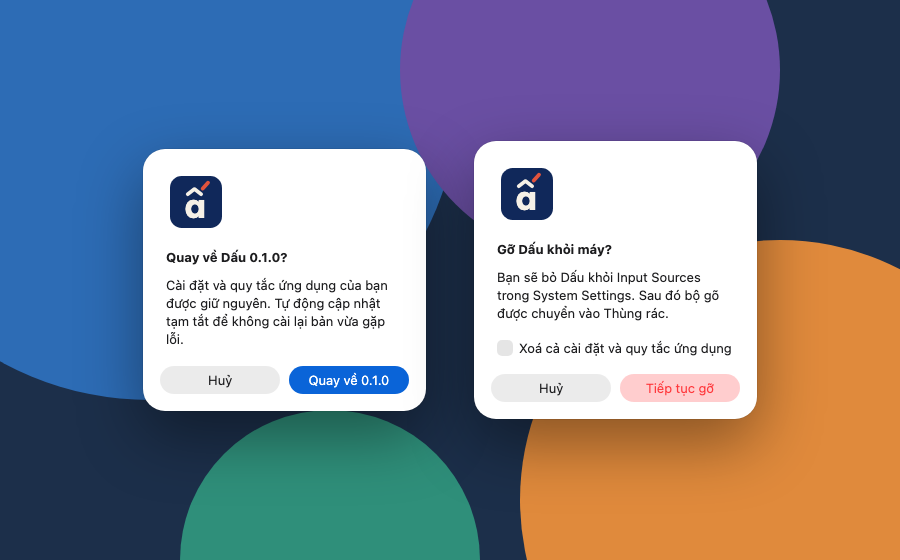
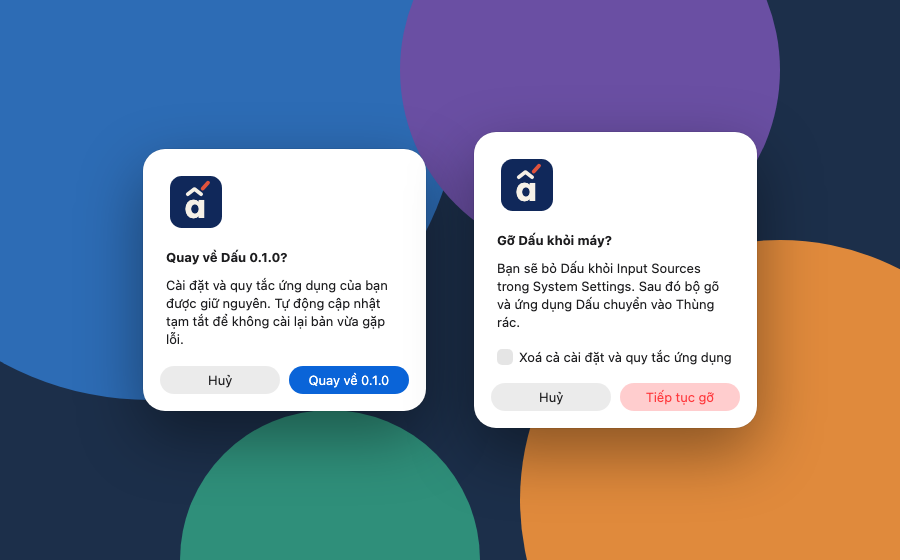
feat(app): move Dấu.app itself to the Trash when uninstalling
The confirmation asks "Uninstall Dấu?" (vi: remove Dấu from this Mac),
but Dấu.app stayed in Applications afterwards and the result alert asked
the user to drag it to the Trash. Once the input method is gone, the app
now moves its own bundle to the Trash and quits. When macOS refuses (no
write access, run from a disk image) the result alert's only button,
"Show in Finder", reveals the app so the user can drag it.

Both result alerts are built before the move: once the bundle is in the
Trash, Bundle.main no longer finds its string tables.

D16 changes accordingly (DecisionsLog has the old rule). New artboard
UninstallDone; ConfirmDialogs and the catalog say the app goes to the
Trash too. Checked on macOS 27.2 with a Debug build in /Applications: the
log shows event=uninstall-app-trashed and the app left Applications.

Changed region(s): [[0.5289, 0.6071, 0.84, 0.7893], [0.5289, 0.425, 0.8089, 0.5768], [0.5289, 0.2125, 0.84, 0.3946]]

diff --git a/docs/canvas/src/ConfirmDialogs.dc.html b/docs/canvas/src/ConfirmDialogs.dc.html
@@ -47,7 +47,7 @@ body{margin:0}
 </div>
 <div style="position: absolute; inset: 0; display: flex; align-items: center; justify-content: center; gap: 48px">
 <div role="alertdialog" aria-labelledby="ra-t" aria-describedby="ra-d" style="width: 283px; box-sizing: border-box; padding: 0 0 16px; border-radius: 22px; display: flex; flex-direction: column; align-items: stretch; text-align: left; background: #ffffff; border: 1px solid rgba(255,255,255,0.45); box-shadow: 0 0 0 0.5px rgba(0,0,0,0.12), 0 24px 64px rgba(0,0,0,0.4)"><svg width="52" height="52" viewBox="0 0 100 100" aria-hidden="true" style="flex: none; display: block; margin: 26px 0 0 26px"><rect x="0" y="0" width="100" height="100" rx="22.4" fill="#10285A"></rect><text x="48" y="80" text-anchor="middle" font-family="'Be Vietnam Pro', -apple-system, 'Helvetica Neue', sans-serif" font-weight="700" font-size="64" fill="#F6F1E7">a</text><path d="M34 35 L47 25 L60 35" fill="none" stroke="#F6F1E7" stroke-width="7" stroke-linecap="round" stroke-linejoin="round"></path><path d="M63 24 L73 13" fill="none" stroke="#E0533D" stroke-width="7.5" stroke-linecap="round"></path></svg><h2 id="ra-t" style="margin: 21px 22px 0; font-size: 13px; line-height: 16px; font-weight: 700; color: #1d1d1f">Quay về Dấu 0.1.0?</h2><p id="ra-d" style="margin: 11px 22px 0; font-size: 13px; line-height: 18px; color: #1d1d1f">Cài đặt và quy tắc ứng dụng của bạn được giữ nguyên. Tự động cập nhật tạm tắt để không cài lại bản vừa gặp lỗi.</p><div style="margin: 18px 16px 0; display: flex; gap: 8.5px"><button class="btn" style="flex: 1; height: 28px; padding: 0 12px; font-weight: 400; background: rgba(0,0,0,0.08)">Huỷ</button><button class="btn pri" style="flex: 1; height: 28px; padding: 0 12px; font-weight: 400">Quay về 0.1.0</button></div></div>
-<div role="alertdialog" aria-labelledby="ua-t" aria-describedby="ua-d" style="width: 283px; box-sizing: border-box; padding: 0 0 16px; border-radius: 22px; display: flex; flex-direction: column; align-items: stretch; text-align: left; background: #ffffff; border: 1px solid rgba(255,255,255,0.45); box-shadow: 0 0 0 0.5px rgba(0,0,0,0.12), 0 24px 64px rgba(0,0,0,0.4)"><svg width="52" height="52" viewBox="0 0 100 100" aria-hidden="true" style="flex: none; display: block; margin: 26px 0 0 26px"><rect x="0" y="0" width="100" height="100" rx="22.4" fill="#10285A"></rect><text x="48" y="80" text-anchor="middle" font-family="'Be Vietnam Pro', -apple-system, 'Helvetica Neue', sans-serif" font-weight="700" font-size="64" fill="#F6F1E7">a</text><path d="M34 35 L47 25 L60 35" fill="none" stroke="#F6F1E7" stroke-width="7" stroke-linecap="round" stroke-linejoin="round"></path><path d="M63 24 L73 13" fill="none" stroke="#E0533D" stroke-width="7.5" stroke-linecap="round"></path></svg><h2 id="ua-t" style="margin: 21px 22px 0; font-size: 13px; line-height: 16px; font-weight: 700; color: #1d1d1f">Gỡ Dấu khỏi máy?</h2><p id="ua-d" style="margin: 11px 22px 0; font-size: 13px; line-height: 18px; color: #1d1d1f">Bạn sẽ bỏ Dấu khỏi Input Sources trong System Settings. Sau đó bộ gõ được chuyển vào Thùng rác.</p><label style="margin: 18px 22px 0; height: 16px; display: flex; align-items: center; gap: 6px; font-size: 13px; color: #1d1d1f"><input type="checkbox" style="appearance: none; -webkit-appearance: none; width: 16px; height: 16px; margin: 0; border-radius: 5px; background: rgba(0,0,0,0.1); flex: none; cursor: default">Xoá cả cài đặt và quy tắc ứng dụng</label><div style="margin: 18px 16px 0; display: flex; gap: 8.5px"><button class="btn" style="flex: 1; height: 28px; padding: 0 12px; font-weight: 400; background: rgba(0,0,0,0.08)">Huỷ</button><button class="btn" style="flex: 1; height: 28px; padding: 0 12px; font-weight: 400; background: rgba(255,56,60,0.25); color: #ff383c">Tiếp tục gỡ</button></div></div>
+<div role="alertdialog" aria-labelledby="ua-t" aria-describedby="ua-d" style="width: 283px; box-sizing: border-box; padding: 0 0 16px; border-radius: 22px; display: flex; flex-direction: column; align-items: stretch; text-align: left; background: #ffffff; border: 1px solid rgba(255,255,255,0.45); box-shadow: 0 0 0 0.5px rgba(0,0,0,0.12), 0 24px 64px rgba(0,0,0,0.4)"><svg width="52" height="52" viewBox="0 0 100 100" aria-hidden="true" style="flex: none; display: block; margin: 26px 0 0 26px"><rect x="0" y="0" width="100" height="100" rx="22.4" fill="#10285A"></rect><text x="48" y="80" text-anchor="middle" font-family="'Be Vietnam Pro', -apple-system, 'Helvetica Neue', sans-serif" font-weight="700" font-size="64" fill="#F6F1E7">a</text><path d="M34 35 L47 25 L60 35" fill="none" stroke="#F6F1E7" stroke-width="7" stroke-linecap="round" stroke-linejoin="round"></path><path d="M63 24 L73 13" fill="none" stroke="#E0533D" stroke-width="7.5" stroke-linecap="round"></path></svg><h2 id="ua-t" style="margin: 21px 22px 0; font-size: 13px; line-height: 16px; font-weight: 700; color: #1d1d1f">Gỡ Dấu khỏi máy?</h2><p id="ua-d" style="margin: 11px 22px 0; font-size: 13px; line-height: 18px; color: #1d1d1f">Bạn sẽ bỏ Dấu khỏi Input Sources trong System Settings. Sau đó bộ gõ và ứng dụng Dấu chuyển vào Thùng rác.</p><label style="margin: 18px 22px 0; height: 16px; display: flex; align-items: center; gap: 6px; font-size: 13px; color: #1d1d1f"><input type="checkbox" style="appearance: none; -webkit-appearance: none; width: 16px; height: 16px; margin: 0; border-radius: 5px; background: rgba(0,0,0,0.1); flex: none; cursor: default">Xoá cả cài đặt và quy tắc ứng dụng</label><div style="margin: 18px 16px 0; display: flex; gap: 8.5px"><button class="btn" style="flex: 1; height: 28px; padding: 0 12px; font-weight: 400; background: rgba(0,0,0,0.08)">Huỷ</button><button class="btn" style="flex: 1; height: 28px; padding: 0 12px; font-weight: 400; background: rgba(255,56,60,0.25); color: #ff383c">Tiếp tục gỡ</button></div></div>
 </div></div>
 </x-dc>
 <script type="text/x-dc" data-dc-script data-props='{"accent":{"editor":"color","default":"#0A64D8","options":["#0A64D8","#7A3FD1","#C2410C","#1F7A4D"]},"$preview":{"width":900,"height":560}}'>

diff --git a/Apps/Dau/Sources/InputMethodActions.swift b/Apps/Dau/Sources/InputMethodActions.swift
@@ -239,15 +239,36 @@ final class InputMethodActions {
         }
     }
 
+    /// Moves Dấu.app itself to the Trash once its input method is gone (D16). False when
+    /// macOS refuses it, such as without write access to its folder or from a disk image.
+    private static func moveAppToTrash(_ app: URL) -> Bool {
+        do {
+            try FileManager.default.trashItem(at: app, resultingItemURL: nil)
+            installLogger.notice("event=uninstall-app-trashed")
+            return true
+        } catch {
+            installLogger.error("event=uninstall-app-not-trashed error=\(String(describing: error), privacy: .public)")
+            return false
+        }
+    }
+
     /// The whole removal with its alerts: prepare, wait for the user, finish.
     func uninstall(deleteSettings: Bool, window: NSWindow?) async {
         switch await performUninstall(deleteSettings: deleteSettings) {
         case .cancelled:
             break
         case .done(let report):
-            UninstallAlert.present(UninstallAlert.done(report), in: window) { _ in
-                // The input method is gone; this app would only offer to install it
-                // again. It quits; the user removes Dấu.app from Applications.
+            // Both alerts are built before the app leaves its folder: once it is in the
+            // Trash, Bundle.main no longer finds its string tables and the text falls
+            // back to the English keys.
+            let app = Bundle.main.bundleURL
+            let removed = UninstallAlert.done(report, appMovedToTrash: true)
+            let leftBehind = UninstallAlert.done(report, appMovedToTrash: false)
+            let appMovedToTrash = Self.moveAppToTrash(app)
+            UninstallAlert.present(appMovedToTrash ? removed : leftBehind, in: window) { _ in
+                if !appMovedToTrash {
+                    NSWorkspace.shared.activateFileViewerSelecting([app])
+                }
                 NSApp.terminate(nil)
             }
         case .failed:
@@ -342,7 +363,7 @@ enum UninstallAlert {
         // macOS lets only the user remove an input source, so the alert says what happens
         // in order (docs/research/InputMethodInstall.md section 5.1).
         let ui = SystemUINames.system()   // macOS's own names (D38)
-        alert.informativeText = String(localized: "You’ll remove Dấu from \(ui.inputSources) in \(ui.systemSettings). Then the input method is moved to \(ui.trash).")
+        alert.informativeText = String(localized: "You’ll remove Dấu from \(ui.inputSources) in \(ui.systemSettings). Then the input method and the Dấu app are moved to \(ui.trash).")
         let remove = alert.addButton(withTitle: String(localized: "Uninstall"))
         remove.hasDestructiveAction = true
         // Return must not remove Dấu: no default button; Esc cancels.
@@ -356,13 +377,22 @@ enum UninstallAlert {
         return (alert, checkbox)
     }
 
-    static func done(_ report: UninstallReport) -> NSAlert {
+    /// The result (mockup "UninstallDone"). Without `appMovedToTrash` its one button reveals
+    /// the app in Finder, where the user drags it to the Trash.
+    static func done(_ report: UninstallReport, appMovedToTrash: Bool) -> NSAlert {
         let alert = NSAlert()
-        alert.messageText = String(localized: "Dấu’s input method was removed")
         let ui = SystemUINames.system()   // macOS's own names (D38)
         var lines: [String] = []
-        if report.movedToTrash {
-            lines.append(String(localized: "The input method was moved to \(ui.trash)."))
+        if appMovedToTrash {
+            alert.messageText = String(localized: "Dấu was removed")
+            lines.append(report.movedToTrash
+                ? String(localized: "Dấu’s input method and app were moved to \(ui.trash).")
+                : String(localized: "The Dấu app was moved to \(ui.trash)."))
+        } else {
+            alert.messageText = String(localized: "Dấu’s input method was removed")
+            if report.movedToTrash {
+                lines.append(String(localized: "The input method was moved to \(ui.trash)."))
+            }
         }
         if report.stillEnabled {
             lines.append(String(localized: "macOS still lists Dấu among the input sources; you can remove it in \(ui.inputSourcesPath)."))
@@ -370,9 +400,13 @@ enum UninstallAlert {
         if report.dataDeleted {
             lines.append(String(localized: "Settings and app rules were deleted."))
         }
-        lines.append(String(localized: "To remove the app too, drag Dấu from the \(ui.applications) folder to \(ui.trash)."))
+        if appMovedToTrash {
+            alert.addButton(withTitle: String(localized: "Quit Dấu"))
+        } else {
+            lines.append(String(localized: "Dấu couldn’t move the app itself, so drag Dấu to \(ui.trash) in the Finder window that opens."))
+            alert.addButton(withTitle: String(localized: "Show in Finder"))
+        }
         alert.informativeText = lines.joined(separator: " ")
-        alert.addButton(withTitle: String(localized: "Quit Dấu"))
         return alert
     }
 

diff --git a/docs/canvas/src/UninstallDone.dc.html b/docs/canvas/src/UninstallDone.dc.html
@@ -1,0 +1,37 @@
+<!doctype html>
+<html lang="vi">
+<head>
+<meta charset="utf-8">
+<title>Gỡ cài đặt xong</title>
+<script src="./support.js"></script>
+</head>
+<body>
+<x-dc>
+<helmet>
+<style>
+@import url('https://fonts.googleapis.com/css2?family=Be+Vietnam+Pro:wght@400;500;600;700;800&display=swap');
+body{margin:0}
+.btn{all:unset;box-sizing:border-box;height:30px;padding:0 16px;border-radius:999px;font-size:13px;font-weight:500;display:inline-flex;align-items:center;justify-content:center;background:rgba(0,0,0,.06);color:#1d1d1f;cursor:default;white-space:nowrap;text-decoration:none}
+.btn.pri{background:var(--acc);color:#fff}
+</style>
+</helmet>
+<div style="width: 900px; height: 560px; position: relative; overflow: hidden; font-family: -apple-system, BlinkMacSystemFont, 'SF Pro Text', 'Helvetica Neue', sans-serif; --acc: {{accent}}"><div aria-hidden="true" style="position: absolute; inset: 0; background: #1c2f4a; overflow: hidden">
+<div style="position: absolute; width: 620px; height: 620px; border-radius: 50%; background: #2d6cb5; left: -160px; top: -220px"></div>
+<div style="position: absolute; width: 520px; height: 520px; border-radius: 50%; background: #e08a3c; right: -140px; bottom: -200px"></div>
+<div style="position: absolute; width: 380px; height: 380px; border-radius: 50%; background: #6a4fa3; right: 120px; top: -120px"></div>
+<div style="position: absolute; width: 300px; height: 300px; border-radius: 50%; background: #2f8f7a; left: 180px; bottom: -150px"></div>
+</div>
+<div style="position: absolute; inset: 0; display: flex; align-items: center; justify-content: center; gap: 48px">
+<div role="alertdialog" aria-labelledby="da-t" aria-describedby="da-d" style="width: 283px; box-sizing: border-box; padding: 0 0 16px; border-radius: 22px; display: flex; flex-direction: column; align-items: stretch; text-align: left; background: #ffffff; border: 1px solid rgba(255,255,255,0.45); box-shadow: 0 0 0 0.5px rgba(0,0,0,0.12), 0 24px 64px rgba(0,0,0,0.4)"><svg width="52" height="52" viewBox="0 0 100 100" aria-hidden="true" style="flex: none; display: block; margin: 26px 0 0 26px"><rect x="0" y="0" width="100" height="100" rx="22.4" fill="#10285A"></rect><text x="48" y="80" text-anchor="middle" font-family="'Be Vietnam Pro', -apple-system, 'Helvetica Neue', sans-serif" font-weight="700" font-size="64" fill="#F6F1E7">a</text><path d="M34 35 L47 25 L60 35" fill="none" stroke="#F6F1E7" stroke-width="7" stroke-linecap="round" stroke-linejoin="round"></path><path d="M63 24 L73 13" fill="none" stroke="#E0533D" stroke-width="7.5" stroke-linecap="round"></path></svg><h2 id="da-t" style="margin: 21px 22px 0; font-size: 13px; line-height: 16px; font-weight: 700; color: #1d1d1f">Đã gỡ Dấu</h2><p id="da-d" style="margin: 11px 22px 0; font-size: 13px; line-height: 18px; color: #1d1d1f">Bộ gõ và ứng dụng Dấu đã chuyển vào Thùng rác. Cài đặt và quy tắc ứng dụng đã bị xoá.</p><div style="margin: 18px 16px 0; display: flex; gap: 8.5px"><button class="btn pri" style="flex: 1; height: 28px; padding: 0 12px; font-weight: 400">Thoát Dấu</button></div></div>
+<div role="alertdialog" aria-labelledby="fa-t" aria-describedby="fa-d" style="width: 283px; box-sizing: border-box; padding: 0 0 16px; border-radius: 22px; display: flex; flex-direction: column; align-items: stretch; text-align: left; background: #ffffff; border: 1px solid rgba(255,255,255,0.45); box-shadow: 0 0 0 0.5px rgba(0,0,0,0.12), 0 24px 64px rgba(0,0,0,0.4)"><svg width="52" height="52" viewBox="0 0 100 100" aria-hidden="true" style="flex: none; display: block; margin: 26px 0 0 26px"><rect x="0" y="0" width="100" height="100" rx="22.4" fill="#10285A"></rect><text x="48" y="80" text-anchor="middle" font-family="'Be Vietnam Pro', -apple-system, 'Helvetica Neue', sans-serif" font-weight="700" font-size="64" fill="#F6F1E7">a</text><path d="M34 35 L47 25 L60 35" fill="none" stroke="#F6F1E7" stroke-width="7" stroke-linecap="round" stroke-linejoin="round"></path><path d="M63 24 L73 13" fill="none" stroke="#E0533D" stroke-width="7.5" stroke-linecap="round"></path></svg><h2 id="fa-t" style="margin: 21px 22px 0; font-size: 13px; line-height: 16px; font-weight: 700; color: #1d1d1f">Đã gỡ bộ gõ Dấu</h2><p id="fa-d" style="margin: 11px 22px 0; font-size: 13px; line-height: 18px; color: #1d1d1f">Bộ gõ đã chuyển vào Thùng rác. Dấu không chuyển được chính ứng dụng, nên bạn kéo Dấu vào Thùng rác trong cửa sổ Finder sắp mở.</p><div style="margin: 18px 16px 0; display: flex; gap: 8.5px"><button class="btn pri" style="flex: 1; height: 28px; padding: 0 12px; font-weight: 400">Hiển thị trong Finder</button></div></div>
+</div></div>
+</x-dc>
+<script type="text/x-dc" data-dc-script data-props='{"accent":{"editor":"color","default":"#0A64D8","options":["#0A64D8","#7A3FD1","#C2410C","#1F7A4D"]},"$preview":{"width":900,"height":560}}'>
+class Component extends DCLogic {
+renderVals() {
+return { accent: this.props.accent ?? '#0A64D8' };
+}
+}
+</script>
+</body>
+</html>

diff --git a/Apps/Dau/Tests/DauAppTests/InputMethodInstallerTests.swift b/Apps/Dau/Tests/DauAppTests/InputMethodInstallerTests.swift
@@ -1155,6 +1155,36 @@ struct UninstallFlowTests {
 }
 
 @MainActor
+@Suite("Uninstall result alert (D16)")
+struct UninstallResultAlertTests {
+    private let report = UninstallReport(movedToTrash: true, stillEnabled: false, dataDeleted: true)
+
+    @Test("With the app in the Trash, the alert says Dấu was removed and only quits")
+    func appMovedToTrash() {
+        let alert = UninstallAlert.done(report, appMovedToTrash: true)
+        #expect(alert.messageText == String(localized: "Dấu was removed"))
+        #expect(alert.buttons.map(\.title) == [String(localized: "Quit Dấu")])
+        #expect(alert.informativeText.contains(String(localized: "Settings and app rules were deleted.")))
+        #expect(!alert.informativeText.contains("Finder"))
+    }
+
+    @Test("Without an input method to remove, the alert names only the app")
+    func onlyTheAppMoved() {
+        let alert = UninstallAlert.done(UninstallReport(), appMovedToTrash: true)
+        let trash = SystemUINames.system().trash
+        #expect(alert.informativeText == String(localized: "The Dấu app was moved to \(trash)."))
+    }
+
+    @Test("When the app could not move itself, the alert offers Finder to drag it to the Trash")
+    func appLeftBehind() {
+        let alert = UninstallAlert.done(report, appMovedToTrash: false)
+        #expect(alert.messageText == String(localized: "Dấu’s input method was removed"))
+        #expect(alert.buttons.map(\.title) == [String(localized: "Show in Finder")])
+        #expect(alert.informativeText.contains("Finder"))
+    }
+}
+
+@MainActor
 @Suite("Banner enable (N4)")
 struct BannerEnableTests {
     final class Opened { var count = 0 }

diff --git a/scripts/selftest/settings-window/Check.swift b/scripts/selftest/settings-window/Check.swift
@@ -284,7 +284,7 @@ for dirName in ["onboarding", "onboarding-no-shortcut"] {
 
 let uninstallDir = root.appendingPathComponent("uninstall")
 let uninstallShots = loadFrames(uninstallDir)?.shots
-for key in ["confirm", "done", "remove", "remove-hint"].flatMap({ k in ["light", "dark"].map { "uninstall-\(k)-\($0)" } }) {
+for key in ["confirm", "done", "done-left-behind", "remove", "remove-hint"].flatMap({ k in ["light", "dark"].map { "uninstall-\(k)-\($0)" } }) {
     let at = "uninstall/\(key)"
     guard let sheet = uninstallShots?[key]?["sheet"], image(uninstallDir.appendingPathComponent("\(key).png")) != nil else {
         harness(at, "(g)", "no capture (see the capture step in run.sh's output)")

diff --git a/Apps/Dau/Sources/DebugCapture.swift b/Apps/Dau/Sources/DebugCapture.swift
@@ -263,7 +263,8 @@ enum DebugCapture {
                 let sample = UninstallReport(movedToTrash: true, stillEnabled: false, dataDeleted: true)
                 let alerts: [(String, NSAlert)] = [
                     ("confirm", UninstallAlert.confirmation().0),
-                    ("done", UninstallAlert.done(sample)),
+                    ("done", UninstallAlert.done(sample, appMovedToTrash: true)),
+                    ("done-left-behind", UninstallAlert.done(sample, appMovedToTrash: false)),
                 ]
                 for (key, alert) in alerts {
                     // The window `runModal` would show, without the modal loop.

diff --git a/docs/Progress.md b/docs/Progress.md
@@ -148,3 +148,10 @@ Nhật ký M0–M4 ở `docs/history/LogM0ToM4.md` (kèm bảng số đo M1–M3
   - **Bộ nhớ:** RSS là 65–69 MB ở cả ba bản (ngưỡng D42 là 96 MB) và footprint 9,5–10 MB. Ở bản Release, RSS là 65,5 MB trước khi gõ, 66,9 MB sau khoảng 4 600 phím và 66,8 MB sau một phút để yên, nên trong lượt này không tăng dần. Ở cả ba pha, Dấu.app (app chủ) không chạy nền.
   - **Test:** engine đạt 127/127 ở cả ba commit, `handle` VNI 2,70 µs mỗi phím (bản Debug). DauInputMethod có 206 test ở `1bfbcd3` và 220 test ở `7cf3382` lẫn `c20eaf4`, tất cả đạt, 124 known issue ở cả ba. Diff `7cf3382..c20eaf4` trong `Packages` và `Apps/DauInputMethod` chỉ đổi comment, xoá ký hiệu không dùng (`Ch.b`, `TextBuffer.isFull`) và dời phần mặc định của `pause`/`waitClock` vào `TimedClient` với cùng biểu thức. Diff đó trong `Apps/Dau` xoá hai tuỳ chọn dòng lệnh chỉ có ở bản Debug và đổi ô tìm của sheet thêm quy tắc; ô tìm đã kiểm ở mục "lượt kiểm sau dọn dẹp" phía trên.
 - 23/11 — chi phí tách helper của bộ gõ ra `Packages/DauInputMethodCore` (máy M3 Max, Xcode 27B52). Kiểm tĩnh bằng `nm | swift demangle`: bản Release của `f344cfb` (trước khi tách) có bản dựng riêng của `InPlaceComposer.handle` cho client thật (`TimedClient`), bản Release `87789f6` chỉ còn bản generic. Đo bằng hai file chạy `swift build -c release` dựng ngoài repo, cùng mã nguồn, cùng client giả là tài liệu chữ thuần, câu Telex 63 phím lặp 4 000 lần, 7 lượt mỗi lần chạy, 3 lần chạy xen kẽ: composer cùng module với client 1 234–1 300 ns mỗi phím (trung vị), khác module 1 289–1 346 ns, tức chậm thêm 40–63 ns mỗi phím. Một lời gọi `insertText` vào app tốn hàng trăm µs (`docs/Compatibility.md` mục 5), ngưỡng p50 của D42 là 3 ms, nên không sửa. Gõ thử bản Release `87789f6` ở Safari, Chrome, Cursor, Terminal, VS Code, và bản Debug với `--underline` ở Safari, Chrome (`scripts/selftest/typing/run.sh`): đúng chữ mọi ô; cài lại bản Release sau đó.
+- 23/11 — gỡ trọn cả app (D16) trên app thật, máy M3 Max, macOS 27.2: bản Debug của cây làm việc trước `3f1547b`, cài vào `/Applications`, người dùng bấm "Gỡ cài đặt…" và bỏ Dấu bằng "–". Log ghi `event=uninstalled` rồi `event=uninstall-app-trashed`: Dấu.app và bộ gõ cùng ra khỏi máy, macOS không chặn app tự chuyển chính nó vào Thùng rác. Chưa đo trên app thật trường hợp app không tự chuyển được (chạy từ ảnh đĩa); trường hợp đó chỉ có test đơn vị. Commit `3f1547b`.
+- 23–24/11 — chẩn đoán, chưa xong: sau khi gỡ rồi cài lại và bật lại Dấu, các app đã chạy từ trước có thể không gõ được bằng Dấu. Máy M3 Max, macOS 27.2, bản Release `3f1547b`; máy bật "Automatically switch to a document's input source" (`TextInputGlobalPropertyPerContextInput = 1`), nên mỗi app nhớ nguồn riêng. Log đọc bằng `/usr/bin/log show` (lệnh `log` trong zsh là builtin của shell). Chỉ giữ các quan sát mà nguồn hiện hành đã đọc được là Dấu lúc gõ; các lượt thử còn lại trong phiên gõ bằng U.S. (công cụ đo chọn U.S. rồi không kiểm lại nguồn), nên đã bỏ.
+  - Khi tiến trình bộ gõ chết lúc bundle không còn ở `~/Library/Input Methods`, app đang giữ Dấu xin mở lại và `imklaunchagent` ghi `LaunchInputMethod() Error, status=-50` (mọi lượt gỡ; cũng tạo lại được bằng cách dời bundle ra chỗ khác, gửi SIGTERM cho bộ gõ, gõ một phím, rồi trả bundle về).
+  - Script Editor sau một lần lỗi như vậy, nguồn là Dấu, bundle đã về chỗ, bộ gõ không chạy: phím ra chữ thường (00:47:48) hoặc bị nuốt (00:51:27–00:51:53), và không có yêu cầu nào tới `imklaunchagent` (không có dòng `Refusing connection name for bundle`).
+  - Ngay sau đó (00:52), khởi động bộ gõ bằng `open` lên bundle, không chuyển nguồn: các phím bị nuốt được xử lý và phím mới ra "tiếng". Mới thấy một lần.
+  - Script Editor mở mới, chọn Dấu: bộ gõ được mở bình thường (00:15:43). Claude không gõ được bằng Dấu sau khi cài lại (người dùng báo, 23:56 và 00:12–00:15); log không có yêu cầu nào từ Claude.
+  - Cần lặp lại, mỗi bước đọc nguồn hiện hành của app đang thử trước khi gõ: app kẹt có hồi lại chỉ nhờ bộ gõ được khởi động không (tiền đề của cách sửa "app chủ khởi động bộ gõ sau khi bật").

diff --git a/docs/UI.md b/docs/UI.md
@@ -225,23 +225,24 @@ Artboard: [SettingsTampered](canvas/SettingsTampered.png).
 
 ## Gỡ cài đặt
 
-Artboard: [ConfirmDialogs](canvas/ConfirmDialogs.png), [UninstallRemoveSource](canvas/UninstallRemoveSource.png).
+Artboard: [ConfirmDialogs](canvas/ConfirmDialogs.png), [UninstallRemoveSource](canvas/UninstallRemoveSource.png), [UninstallDone](canvas/UninstallDone.png).
 
 Luồng gỡ theo D16 (Bảo trì và gỡ cài đặt). macOS chỉ cho người dùng tự bỏ một nguồn đầu vào, nên việc gỡ có ba bước. Nếu Dấu không có trong nguồn đầu vào, app gỡ luôn sau alert xác nhận, không mở System Settings và không hiện sheet.
 
 - Bước đầu là alert xác nhận của hệ thống:
   - Alert có tuỳ chọn xoá cả cài đặt và quy tắc.
   - Nút xác nhận là "Tiếp tục gỡ". Bấm nút này chưa xoá gì.
-  - Nội dung alert chỉ nói rằng người dùng bỏ Dấu khỏi nguồn đầu vào trong System Settings, rồi Dấu chuyển vào Thùng rác.
+  - Nội dung alert chỉ nói rằng người dùng bỏ Dấu khỏi nguồn đầu vào trong System Settings, rồi bộ gõ và ứng dụng Dấu chuyển vào Thùng rác.
 - Bước tiếp theo là sheet "Bỏ Dấu khỏi nguồn đầu vào" trên cửa sổ Cài đặt:
   - App mở thẳng danh sách Input Sources của System Settings, với sheet Edit… đã mở sẵn và không chuyển nguồn đầu vào nào.
   - Sheet nêu một bước (chọn Dấu, bấm "–", bấm Done) và chờ mục lưu của Dấu biến mất, không có hạn chờ.
   - Câu nhắc "nếu nút – bị mờ, chọn bàn phím khác" chỉ hiện khi Dấu đang là nguồn được chọn. Sheet đọc lại điều này khi sheet hiện, khi cửa sổ thành key lại và khi nguồn đang chọn đổi, nên câu nhắc biến mất khi người dùng chuyển bàn phím.
   - "Huỷ gỡ cài đặt" (hoặc phím Esc, đóng sheet hay một lỗi gỡ giữa chừng) đóng sheet mà không xoá hay đổi gì.
   - Nút "Mở System Settings" chỉ mở trang đó.
-- Khi mục lưu biến mất, app dừng bộ gõ, chuyển nó vào Thùng rác, xoá dữ liệu nếu người dùng đã tick, rồi hiện alert nêu những gì đã làm; nội dung alert đọc lại từ hệ thống.
+- Khi mục lưu biến mất, app dừng bộ gõ, chuyển nó vào Thùng rác, xoá dữ liệu nếu người dùng đã tick, rồi chuyển chính nó vào Thùng rác. Sau đó app hiện alert nêu những gì đã làm; nội dung alert đọc lại từ hệ thống.
+  - Khi chuyển được cả app, alert có tiêu đề "Đã gỡ Dấu" và một nút "Thoát Dấu".
+  - Khi không chuyển được app, alert có tiêu đề "Đã gỡ bộ gõ Dấu" và một nút "Hiển thị trong Finder". Nút này mở Finder, chọn sẵn app để người dùng kéo vào Thùng rác, rồi app thoát.
 - Bộ gõ không bao giờ bị xoá khi mục lưu còn, vì nếu bundle mất trước thì mục còn lại không gỡ được.
-- App không tự xoá chính nó, mà chỉ hướng dẫn người dùng kéo nó vào Thùng rác.
 
 Quay về bản trước theo D19 (Quay về bản trước) và chưa có ở beta đầu tiên.
 

diff --git a/docs/Architecture.md b/docs/Architecture.md
@@ -403,6 +403,8 @@ Mã 2 để trống cho dòng lệnh sai, như các lệnh Debug. `scripts/dev/i
 2. `waitUntilRemovedFromInputSources` thăm dò mục lưu của Dấu (`storedEnabledIDs`) cho tới khi nó rỗng và có thể huỷ được. Trong lúc đó `UninstallRemoveSheet` hiện trên cửa sổ Cài đặt.
 3. `finishUninstall` chỉ chạy khi mục lưu đã rỗng; nếu không, kết quả là `stillListed`. Bước này chuyển `~/Library/Input Methods/DauInputMethod.app` vào Thùng rác rồi dừng bộ gõ. Nếu người dùng đã tick ô, nó xoá suite App Group (`removePersistentDomain`) và phát thông báo đổi cài đặt. Bước này xoá bộ đệm của System Settings (`SystemSettingsControl.clearKeyboardCache`) nhưng không đụng tới bộ đệm của các app khác, rồi đọc lại hệ thống để báo kết quả.
 
+Sau ba bước đó, `InputMethodActions.uninstall` chuyển chính Dấu.app (`Bundle.main.bundleURL`) vào Thùng rác bằng `FileManager.trashItem`. Hàm dựng sẵn cả hai dạng alert kết quả (`UninstallAlert.done`) trước khi chuyển, vì app đã vào Thùng rác thì `Bundle.main` không còn tìm thấy bảng chuỗi. Nếu không chuyển được, nút của alert mở Finder chọn sẵn app (`NSWorkspace.activateFileViewerSelecting`). Cả hai trường hợp đều kết thúc bằng việc app thoát.
+
 ### Cập nhật và báo lỗi
 
 Phần này là trang Cập nhật & hỗ trợ (`UpdatesSupportView`); hành vi của trang tả ở `docs/UI.md`.

diff --git a/docs/history/DecisionsLog.md b/docs/history/DecisionsLog.md
@@ -196,6 +196,7 @@ Lưu trữ cách từng nguyên tắc và quyết định trong `docs/Decisions.
 
 - 11/11/2026 (sổ viết lại): ba ý "Quy tắc kèm theo khi gỡ" (huỷ hay lỗi không xoá gì; không đụng container riêng của bộ gõ; app không tự xoá chính nó) chuyển từ `docs/Architecture.md` vào sổ; luật không đổi.
 - 16/11/2026 (người dùng duyệt, sau kiểm toán M6): dòng mục lục "Gỡ chỉ chạy sau khi người dùng bỏ Dấu bằng "–"." viết đủ "bỏ Dấu khỏi nguồn đầu vào". Luật không đổi.
+- 23/11/2026 (người dùng chọn, sau một lượt phản biện): gỡ trọn cả app. Người dùng gỡ Dấu trên một máy Intel rồi thấy Dấu.app vẫn còn trong Applications, dù alert xác nhận hỏi "Gỡ Dấu khỏi máy?". Bản trước, nguyên văn: "App không tự xoá chính nó, chỉ hướng dẫn rồi thoát." Dòng mục lục trước: "App chỉ gỡ bộ gõ sau khi người dùng bỏ Dấu khỏi nguồn đầu vào bằng nút "–"." Artboard mới: UninstallDone.
 
 ### D17. Trợ năng
 

diff --git a/docs/canvas/README.md b/docs/canvas/README.md
@@ -66,6 +66,7 @@
 ## Gỡ cài đặt
 
 - [Gỡ cài đặt – bỏ Dấu khỏi nguồn đầu vào](UninstallRemoveSource.png) · [nguồn](src/UninstallRemoveSource.dc.html)
+- [Gỡ cài đặt – xong (trái: gỡ trọn; phải: không chuyển được ứng dụng)](UninstallDone.png) · [nguồn](src/UninstallDone.dc.html)
 
 ## Nhận diện
 
